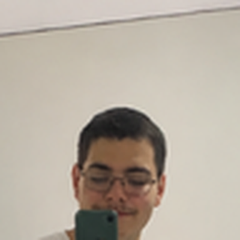
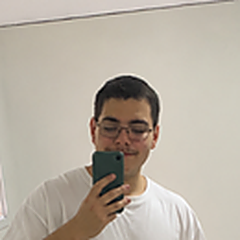
Add files via upload

diff --git a/index.html b/index.html
@@ -373,25 +373,20 @@
           <article class="integrante">
             <img class="integrante__foto" src="Imagem_Raissa.png" width="320" height="320" alt="Raissa Rodrigues">
             <h3>Raissa Rodrigues</h3>
-            <p class="integrante__funcao">Líder de equipe e front-end</p>
+            <p class="integrante__funcao">
+              Líder de equipe e <span class="juntos">front-end</span>
+            </p>
             <div class="integrante__links">
               <a href="https://github.com/raiidellamura" target="_blank" rel="noopener">GitHub</a>
             </div>
           </article>
 
           <article class="integrante">
-            <img class="integrante__foto" src="Imagem_Rafael.png" width="320" height="320" alt="Rafael Grespan">
-            <h3>Rafael Grespan</h3>
-            <p class="integrante__funcao">Desenvolvimento web e produto digital</p>
-            <div class="integrante__links">
-              <a href="https://github.com/Grespan147" target="_blank" rel="noopener">GitHub</a>
-            </div>
-          </article>
-
-          <article class="integrante">
             <img class="integrante__foto" src="Imagem_Victoria.png" width="320" height="320" alt="Victória Murakami">
             <h3>Victória Murakami</h3>
-            <p class="integrante__funcao">Desenvolvimento back-end</p>
+            <p class="integrante__funcao">
+              Desenvolvimento <span class="juntos">back-end</span>
+            </p>
             <div class="integrante__links">
               <a href="https://github.com/victoriaMurakami" target="_blank" rel="noopener">GitHub</a>
             </div>
@@ -403,6 +398,15 @@
             <p class="integrante__funcao">Design de interface</p>
             <div class="integrante__links">
               <a href="https://github.com/Leandro-Willian" target="_blank" rel="noopener">GitHub</a>
+            </div>
+          </article>
+
+          <article class="integrante">
+            <img class="integrante__foto" src="Imagem_Rafael.png" width="320" height="320" alt="Rafael Grespan">
+            <h3>Rafael Grespan</h3>
+            <p class="integrante__funcao">Desenvolvimento web e produto digital</p>
+            <div class="integrante__links">
+              <a href="https://github.com/Grespan147" target="_blank" rel="noopener">GitHub</a>
             </div>
           </article>
 
